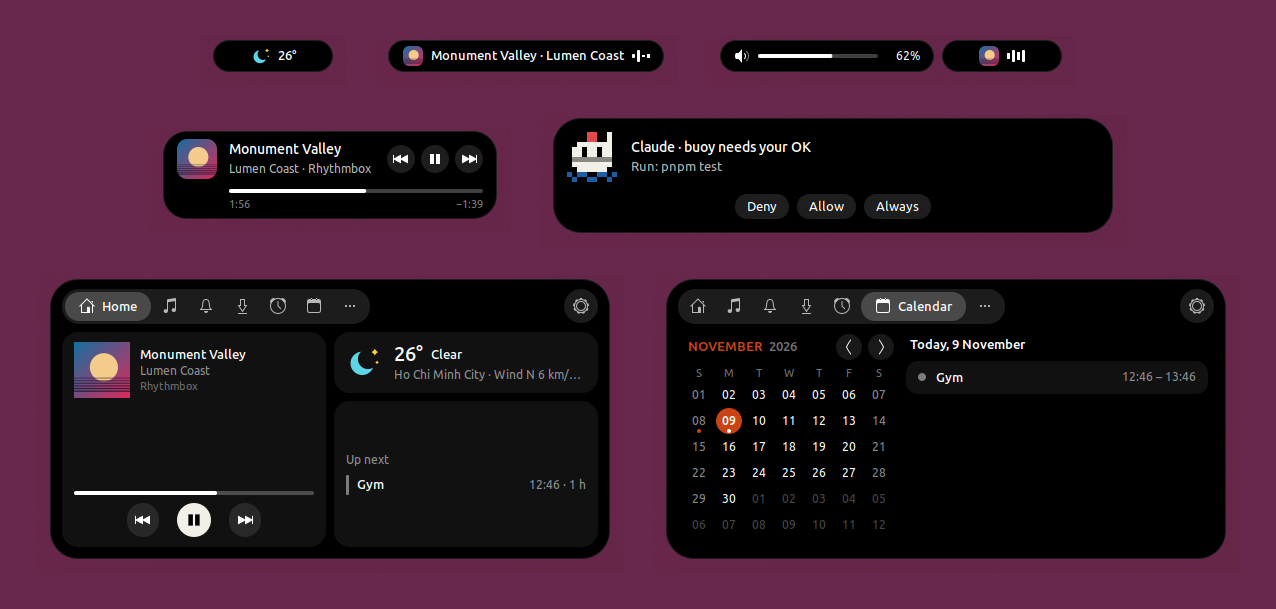
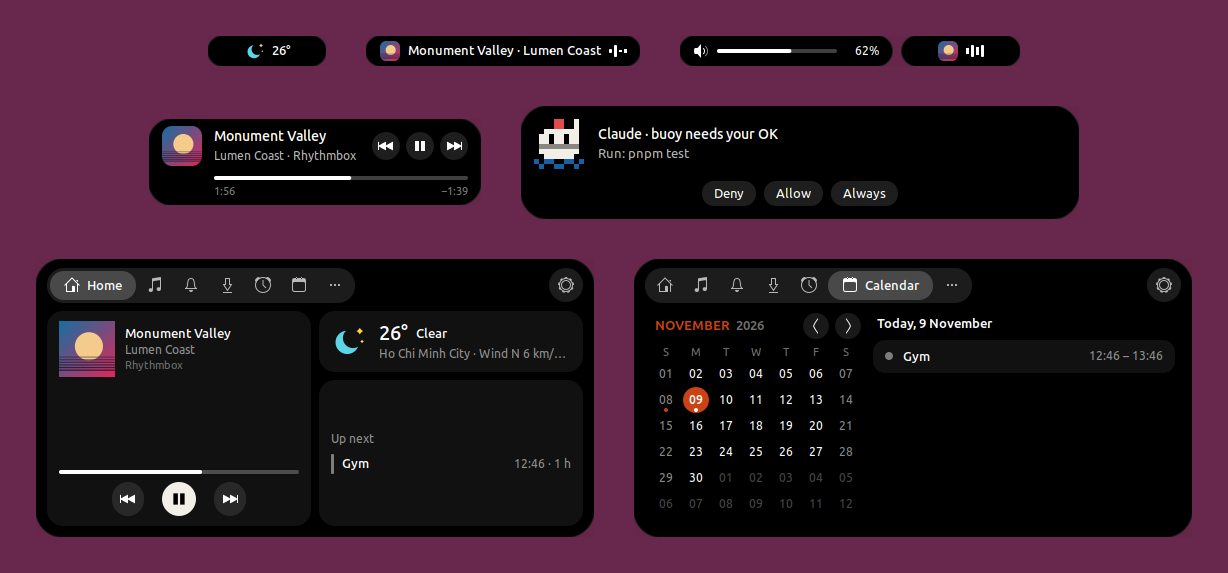
docs(readme): even purple margins around every pill in the images
The GIFs and every part of the overview are cropped to their pill and padded
with the same purple on all four sides; the GIFs' display sizes follow.

Refs: FEATURES.md M3 "Release"

diff --git a/docs/FEATURES.md b/docs/FEATURES.md
@@ -154,7 +154,7 @@ Nothing user-visible until M1 is done; everything else depends on it.
 | [x] | **0.1.1: extensions.gnome.org review fixes** (added 2026-11-09, Ethan: fix what Shexli found before submitting) | — | Shexli (EGO's static analyser), gjs.guide review guidelines | — | Shexli shows no synchronous file IO and no `lookupByURL`; `run_dispose` explained; signals tied to `this`; released as 0.1.1 with a versioned zip beside the fixed name | — |
 | | ↳ 2026-11-09 Shexli 0.2.1 on the v0.1 zip (with tree-sitter 0.25: 0.26 crashes it): 8 findings, 0 errors. Fixed: `kit/files.js` (`readText`, `listInfos` / `listNames`: Gio's async calls; `ppidOf`) — app profiles (`loadProfiles` async and cancellable, a newer load wins, `Registry.destroy` cancels), the /proc parent walk (`appOfPid` async), Claude Desktop's session files and shown session (read ahead on the session's events and after a click into `_desktop`, so `_raise` still decides at once; cancelled on disable), the Fn Lock LED and its first state (`_watchFnLock` async, cancelled on disable; the fd wake-up still reads the sysfs attribute directly, which re-arms it); the greeting gets Buoy's Extension from `extension.js` (`opts.extension`) instead of `Extension.lookupByURL`; `run_dispose` on the WallClock says why (Shell's `UnlockDialogClock` does the same); `extension.js` ties its handlers to `this` (`connectObject` / `disconnectObject`); `panel.js` disconnects its gesture and drops its references. Version 0.1.1 (`version` 2; notes.js: two fixed lines; `docs/releases/0.1.1.md`); `tests/metadata.test.js` takes a three-part name; `release.yml` attaches the zip again as `buoy@murilegus-v<name>.shell-extension.zip` (Ethan: tell versions apart when downloaded). Left, explained: clipboard access (declared in the description), `hooks/claude.js` not imported (Claude Code runs it), `panel.js` / `present.js` objects and signals that go with their actor's `destroy()`. Shexli after: 6 findings, 0 errors, no sync IO or lookupByURL. Tests: `tests/files.test.js` (text, a Gio.File, missing, a folder, cancelled, /proc; names, missing → NOT_FOUND, not a folder, empty, 150 entries; ppidOf with odd comm names and bad input), registry (await, not a folder reported, cancelled). Headless Shell 50.1: profiles loaded at enable and again when a file was added, a broken one warned; the greeting's `_ext` is Buoy; `appOfBusName` on a fake MPRIS player; a Claude Code hook surfaced its pill; Claude Desktop files faked in the scratch config → `{uri, shown}` read ahead; disable / enable ×2; no log line from Buoy but the broken profile's warning | | | | | |
 | [ ] | Release: pack, EGO submission, README GIF (file copy progress); Bu as icon and in the README (`docs/mascot/`) | | | | | |
-| | ↳ 2026-11-09 v0.1 (2026-11-08) and v0.1.1 published on GitHub Releases; the repo public with a `main` ruleset; 0.1.1 uploaded to extensions.gnome.org (https://extensions.gnome.org/extension/11684/buoy/), waiting for review; README names the page (not linked: an unreviewed extension's page is a 404 to everyone but its author) beside an "in review" badge; the page's icon is Bu waving (`docs/mascot/hello-icon.png`). README images (Ethan, 2026-11-09): `docs/screenshots/claude-busy@2x.gif` — the Claude Code pill with Bu busy, two frames taken from a headless Shell at scale 2 so the text is drawn at 2x, shown at 206 × 50, beside `claude-busy-hover@2x.gif`, the same pill under the pointer ("Running pnpm test", 268 × 74; Ethan: to compare) — and `overview.png` — the idle weather, a track, the volume, the hover view, a permission prompt, Home and the Calendar tab, each cropped to its pill (the track, its cover and the Claude Code session are made up; the weather is real). Left: the overview on the EGO page, the badge and wording once accepted | | | | | |
+| | ↳ 2026-11-09 v0.1 (2026-11-08) and v0.1.1 published on GitHub Releases; the repo public with a `main` ruleset; 0.1.1 uploaded to extensions.gnome.org (https://extensions.gnome.org/extension/11684/buoy/), waiting for review; README names the page (not linked: an unreviewed extension's page is a 404 to everyone but its author) beside an "in review" badge; the page's icon is Bu waving (`docs/mascot/hello-icon.png`). README images (Ethan, 2026-11-09): `docs/screenshots/claude-busy@2x.gif` — the Claude Code pill with Bu busy, two frames taken from a headless Shell at scale 2 so the text is drawn at 2x, shown at 200 × 54, beside `claude-busy-hover@2x.gif`, the same pill under the pointer ("Running pnpm test", 262 × 78; Ethan: to compare) — and `overview.png` — the idle weather, a track, the volume, the hover view, a permission prompt, Home and the Calendar tab, each cropped to its pill with an even purple margin on every side (Ethan) (the track, its cover and the Claude Code session are made up; the weather is real). Left: the overview on the EGO page, the badge and wording once accepted | | | | | |
 
 ## M4 — "Wow" pack (v0.2)  `[ ]`
 

diff --git a/README.md b/README.md
@@ -27,9 +27,9 @@ assistant to talk to, no setup. Just a mark on the surface telling you what's
 happening underneath.
 
 <p align="center">
-  <img src="docs/screenshots/claude-busy@2x.gif" width="206" height="50" alt="The pill while Claude Code works: Bu bobs beside &quot;Claude · buoy, 5 min&quot;">
+  <img src="docs/screenshots/claude-busy@2x.gif" width="200" height="54" alt="The pill while Claude Code works: Bu bobs beside &quot;Claude · buoy, 5 min&quot;">
   &nbsp;&nbsp;
-  <img src="docs/screenshots/claude-busy-hover@2x.gif" width="268" height="74" alt="The same pill under the pointer: Bu bigger, &quot;Claude · buoy&quot; and &quot;Running pnpm test&quot;">
+  <img src="docs/screenshots/claude-busy-hover@2x.gif" width="262" height="78" alt="The same pill under the pointer: Bu bigger, &quot;Claude · buoy&quot; and &quot;Running pnpm test&quot;">
 </p>
 
 ## What's in 0.1
